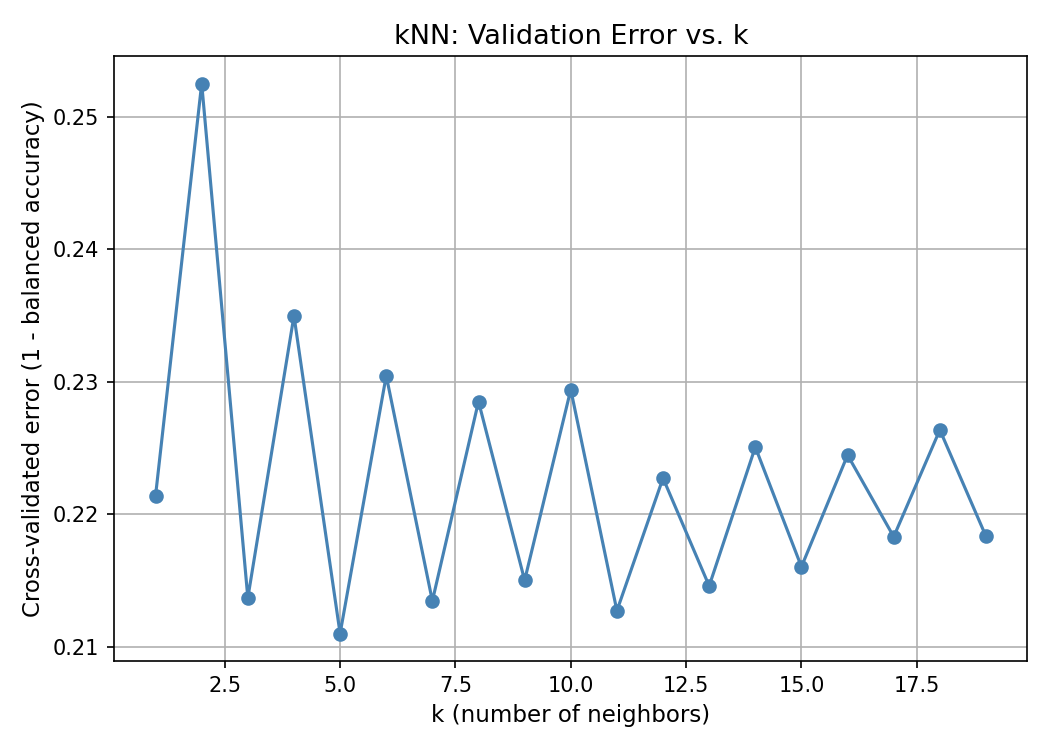
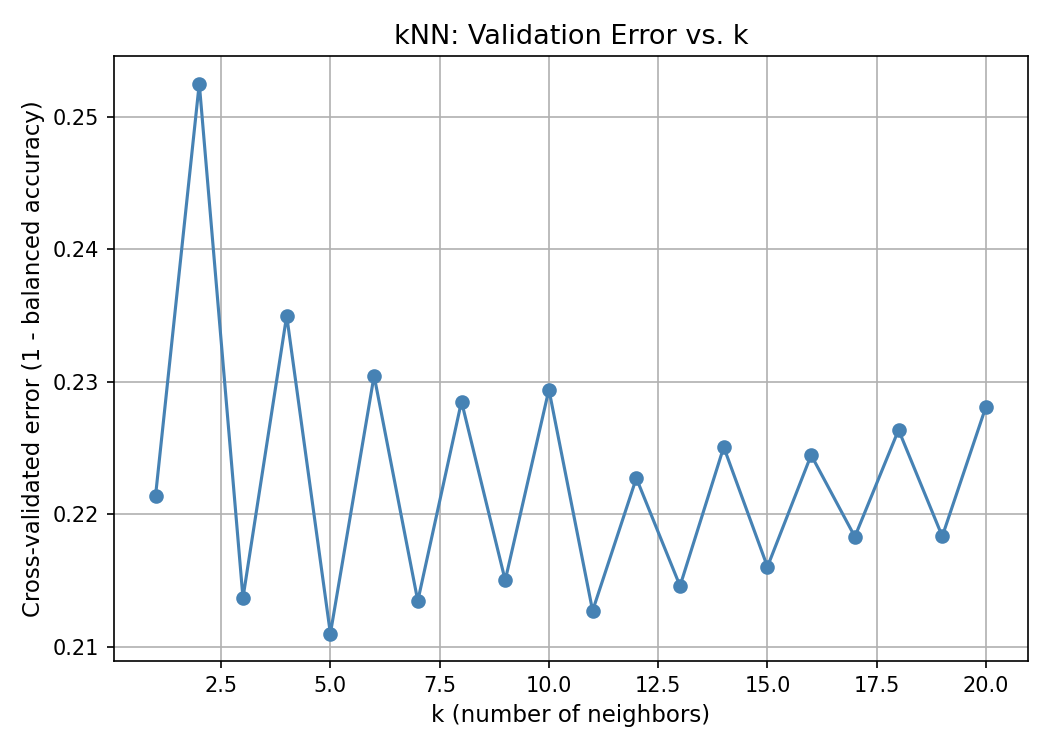
random stuff

diff --git a/03_baseline_knn.py b/03_baseline_knn.py
@@ -30,7 +30,7 @@ print(f"X_train: {X_train.shape}, X_test: {X_test.shape}")
 # SECTION 2: CHOOSE k VALUES TO TEST (HYPERPARAMETER TUNING)
 
 
-k_values = list(range(1, 20))
+k_values = list(range(1, 21))
 
 # prevent noise with stratification
 cv_strategy = StratifiedKFold(n_splits=5, shuffle=True, random_state=42)

diff --git a/01_eda.py b/01_eda.py
@@ -42,8 +42,6 @@ df = df.copy()
 n_duplicates = df.duplicated().sum()
 print(f"Duplicate rows found: {n_duplicates}")
 
-df = df.drop_duplicates(keep="first").reset_index(drop=True)
-
 print(f"Rows after removing duplicates: {len(df)}")
 print("Updated class distribution:")
 print(df["class"].value_counts())

diff --git a/02_preprocessing.py b/02_preprocessing.py
@@ -29,6 +29,7 @@ print(f"Shape before cleaning: {df.shape}")
 # with an in-memory copy throughout.
 df = df.copy()
 
+df = df.drop_duplicates(keep="first").reset_index(drop=True)
 
 # SECTION 2: MISSING VALUES (NO ACTION NEEDED) & CHECK FOR DUPLICATE ROWS (NO REMOVAL)
 

diff --git a/9_kNN_note.md b/9_kNN_note.md
@@ -32,7 +32,7 @@ any decision-making, only for the final reported result.
 
 WHY THESE SPECIFIC VALUES?
 We try a spread from very small (k=1, most flexible, most overfitting
-risk) to larger (k=25, smoother, more underfitting risk), matching the
+risk) to larger (k=20, smoother, more underfitting risk), matching the
 overfitting-vs-underfitting tradeoff shown in Lecture 3b, Section 1-2."""
 
 """WHY CROSS-VALIDATION INSTEAD OF A SINGLE VALIDATION SPLIT?
